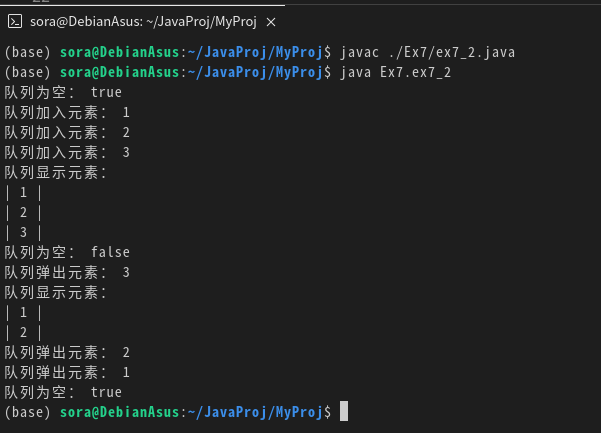
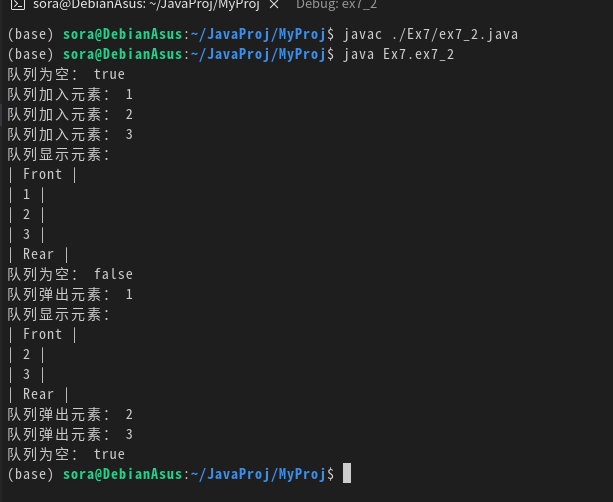
fix: fix the issues of `ex7_2`
Confused the concepts of stack and queue.

Changed region(s): [[0.0, 0.0, 0.8686, 0.9908], [0.2097, 0.8106, 0.2396, 0.8707]]

diff --git a/MyProj/Ex7/Depends/Quene.java b/MyProj/Ex7/Depends/Quene.java
@@ -6,12 +6,12 @@ import java.lang.RuntimeException;
 
 public class Quene <T> {
     private int front = 0;
-    private int real = 0;
+    private int rear = 0;
     private ArrayList<T> list = new ArrayList<>();
 
     /// 入队
     public void inQuene(T t){
-        real++;
+        rear++;
         list.add(t);
         System.out.println("队列加入元素：" + t);
     }
@@ -21,20 +21,22 @@ public class Quene <T> {
             throw new RuntimeException("队列为空");
         }
         front++;
-        T t = list.getLast();
-        list.removeLast();
+        T t = list.getFirst();
+        list.removeFirst();
         System.out.println("队列弹出元素：" + t);
         return t;
     }
     /// 判断是否为空
     public boolean isEmpty(){
-        return real == front;
+        return rear == front;
     }
     /// 显示队列
     public void showQuene(){
         System.out.println("队列显示元素：");
+        System.out.println("| " + "Front" + " |");
         for (T t : list) {
             System.out.println("| " + t + " |");
         }
+        System.out.println("| " + "Rear" + " |");
     }
 }
